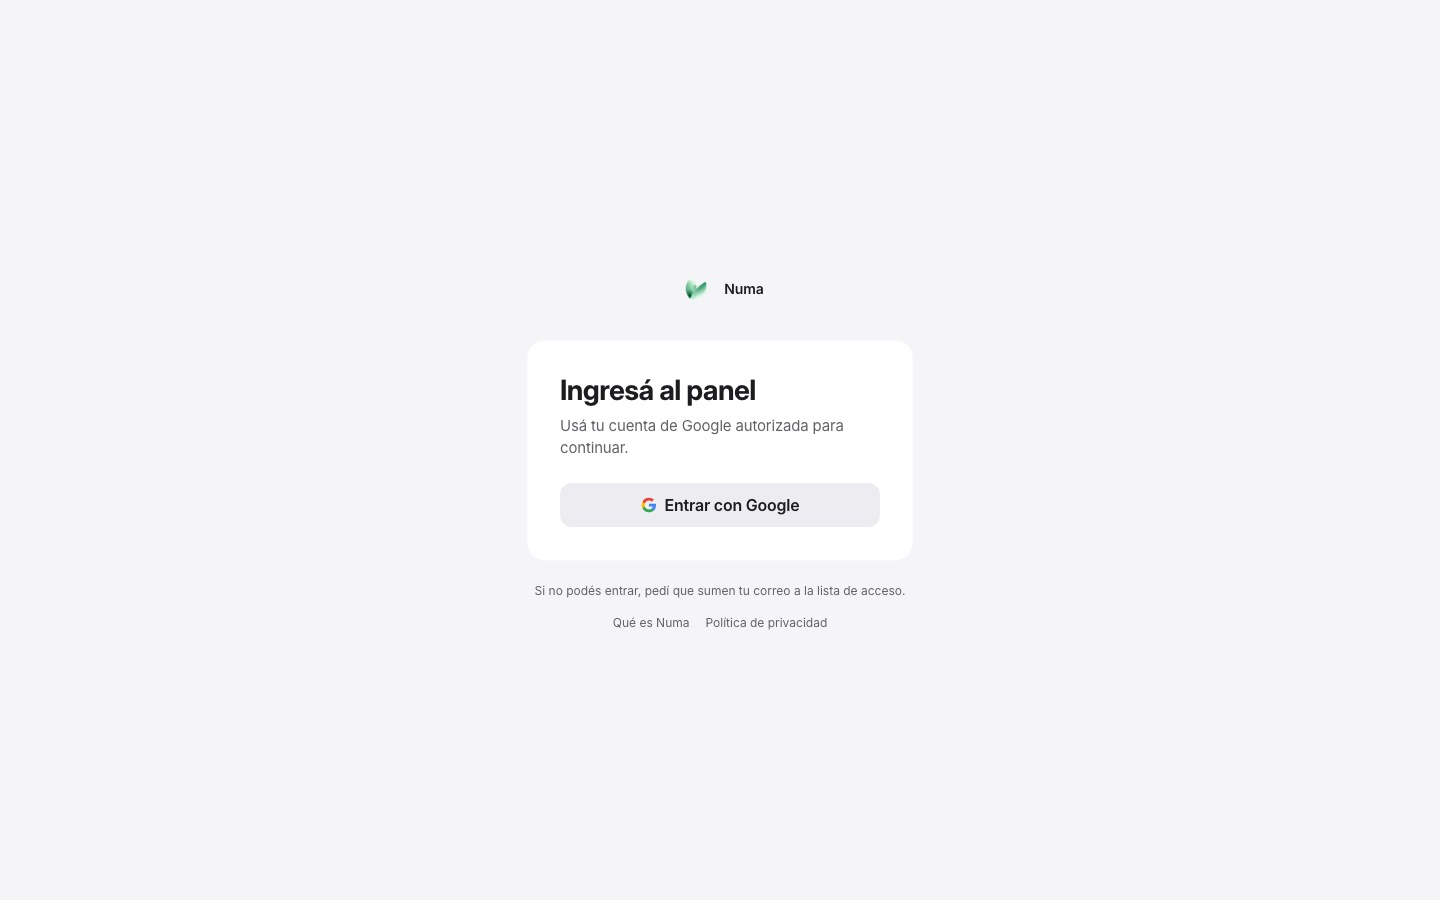
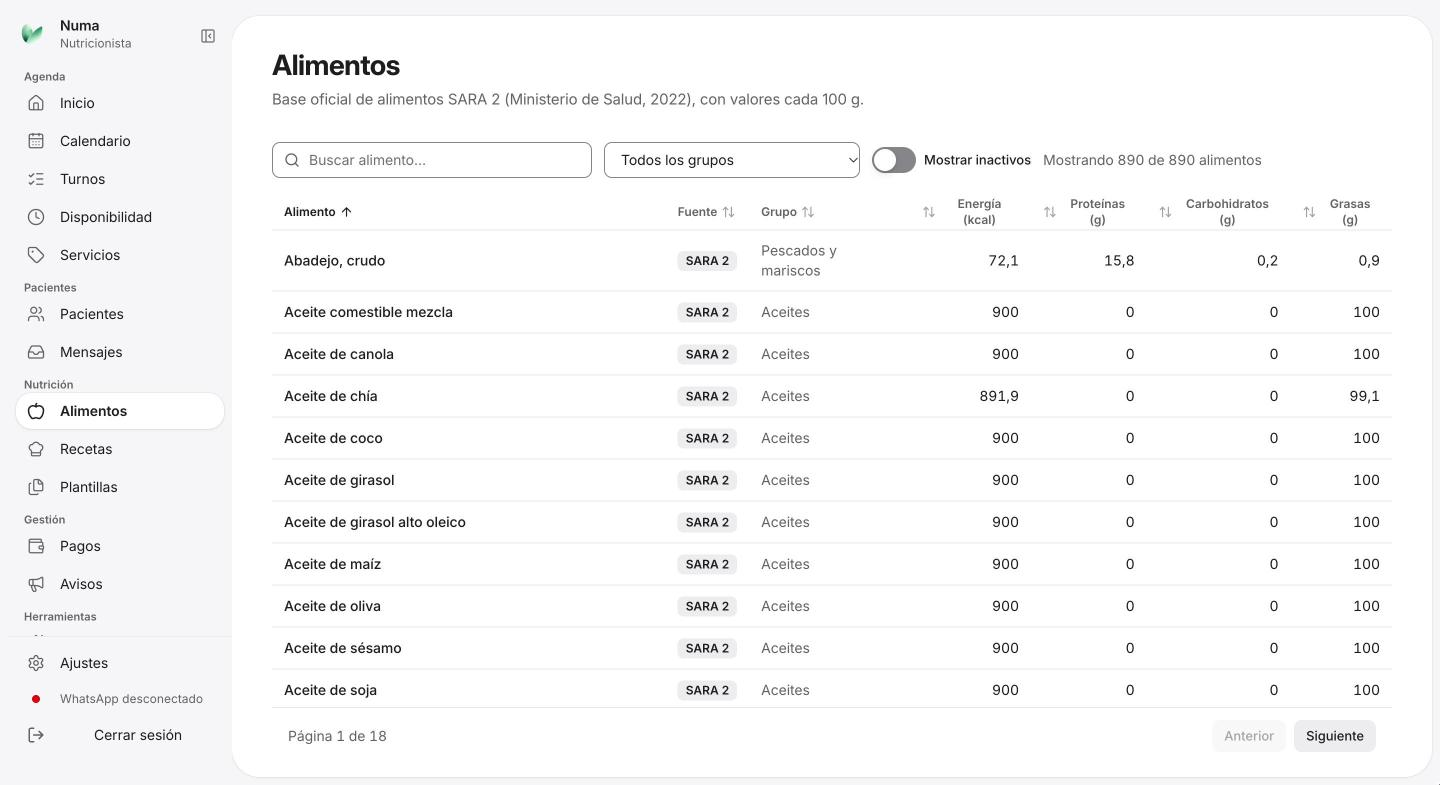
Actualizar capturas de Numa y TechMap

diff --git a/src/data/site.ts b/src/data/site.ts
@@ -2,6 +2,7 @@ import type { ImageMetadata } from "astro";
 import factum from "../assets/work/factum.jpg";
 import numa from "../assets/work/numa.jpg";
 import juridico from "../assets/work/juridico.jpg";
+import techmap from "../assets/work/techmap.jpg";
 
 export const contact = {
   email: "arzium.dev@gmail.com",
@@ -55,7 +56,7 @@ export const projects: Project[] = [
     year: 2026,
     tags: ["Panel de gestión", "Inicio de sesión con Google", "Lista de acceso", "Web app"],
     icon: { text: "N", className: "bg-[#e9f6e3] text-[#3a8f2c]" },
-    image: { src: numa, alt: "Pantalla de acceso del panel de Numa" },
+    image: { src: numa, alt: "Panel de Numa: base de alimentos con valores nutricionales" },
   },
   {
     name: "TechMap",
@@ -64,7 +65,7 @@ export const projects: Project[] = [
     year: 2026,
     tags: ["Seguridad electrónica", "Catálogo de servicios", "Contacto directo", "SEO local"],
     icon: { text: "T", className: "bg-[#0f1720] text-white" },
-    cover: { title: "TechMap", subtitle: "Cámaras de seguridad & alarmas" },
+    image: { src: techmap, alt: "Portada del sitio de TechMap: cámaras de seguridad y alarmas" },
   },
   {
     name: "Federico & Asociados",
